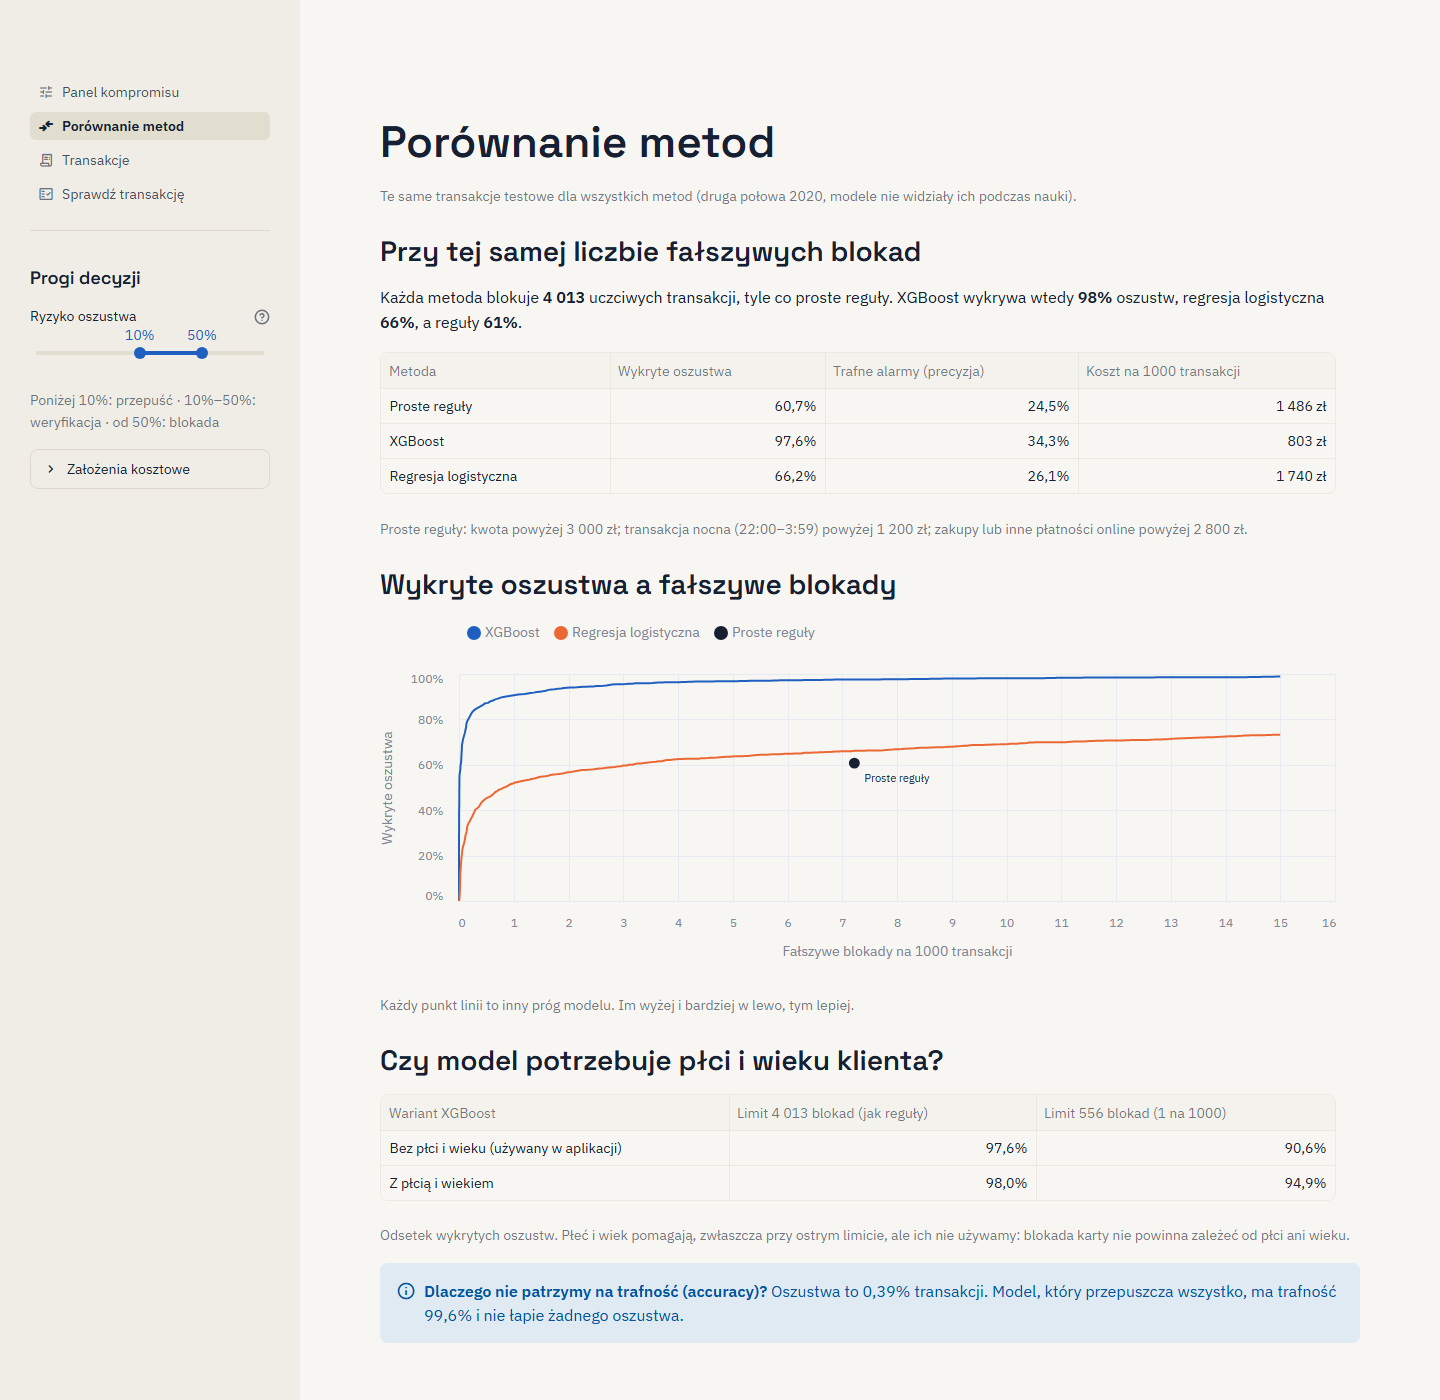
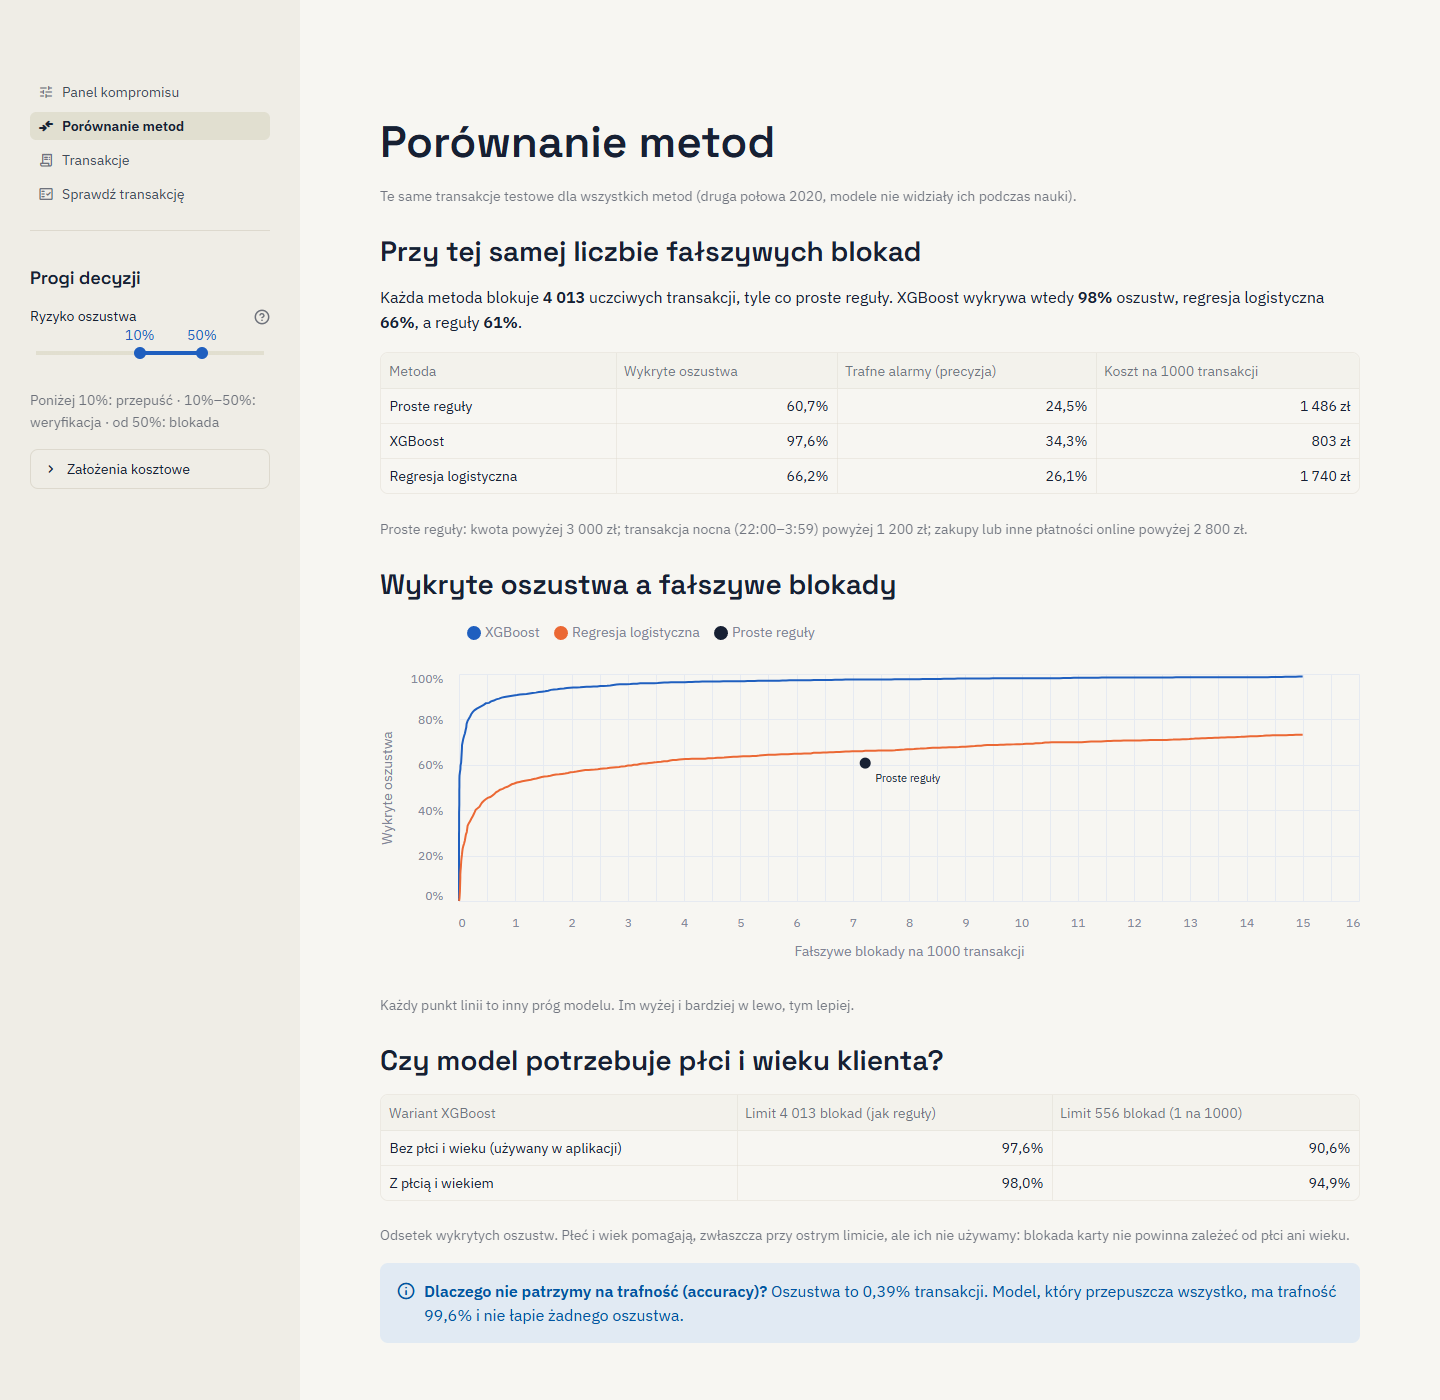
Polish number and date formats, model limitation in the results, pin pandas below 3.1

diff --git a/report.py b/report.py
@@ -1,6 +1,6 @@
 """Writes a summary of the results to results/: Markdown tables and two charts.
 
-Run after train.py: uv run python report.py
+Run after train.py: uv run python report.py (it also reads data/fraudTrain.csv for the largest training fraud).
 """
 
 import json
@@ -12,15 +12,15 @@ import pandas as pd
 import xgboost as xgb
 
 from src.config import (
-    DEFAULT_BLOCK_COST, DEFAULT_THRESHOLDS, DEFAULT_VERIFY_COST, DEFAULT_VERIFY_EFFICACY, META_PATH, MODEL_PATH,
-    RESULTS_DIR, RISK_STEPS, SCORED_PATH, USD_PLN_SOURCE,
+    DATA_DIR, DEFAULT_BLOCK_COST, DEFAULT_THRESHOLDS, DEFAULT_VERIFY_COST, DEFAULT_VERIFY_EFFICACY, META_PATH,
+    MODEL_PATH, RESULTS_DIR, RISK_STEPS, SCORED_PATH, USD_PLN, USD_PLN_SOURCE,
 )
 from src.evaluation import (
     BLOCK, PASS, VERIFY, Costs, alarm_curve, compare_at_rules_false_alarms, comparison_table, decide, evaluate,
     sensitive_variants_table,
 )
-from src.features import BASE_FEATURES, FEATURE_LABELS
-from src.formatting import BLUE, INK, ORANGE, fmt_int, fmt_pct, fmt_pln, fmt_step
+from src.features import BASE_FEATURES, FEATURE_LABELS, add_model_inputs
+from src.formatting import BLUE, INK, ORANGE, fmt_date, fmt_int, fmt_pct, fmt_pln, fmt_step
 from src.rules import RULE_LABELS
 
 MODELS = {"XGBoost": "score_xgb", "Regresja logistyczna": "score_lr"}
@@ -60,10 +60,9 @@ def comparison_chart(df: pd.DataFrame, y: np.ndarray, false_alarms: int, rules_d
     plt.close(fig)
 
 
-def importance_chart(df: pd.DataFrame) -> pd.Series:
+def importance_chart(df: pd.DataFrame, booster: xgb.Booster) -> pd.Series:
     """Mean absolute SHAP value per business feature on a random sample of test transactions."""
     sample = df.sample(20_000, random_state=42)
-    booster = xgb.Booster(model_file=str(MODEL_PATH))
     contributions = booster.predict(xgb.DMatrix(sample[BASE_FEATURES].astype("float32")), pred_contribs=True)[:, :-1]
     importance = (
         pd.DataFrame(contributions, columns=BASE_FEATURES).T.groupby(FEATURE_LABELS).sum().T
@@ -92,6 +91,22 @@ def cheapest_thresholds(y: np.ndarray, amount: np.ndarray, scores: np.ndarray, c
     return best[0], best[1], cost[best]
 
 
+def largest_training_fraud() -> float:
+    """The largest fraud in the training data, in PLN: the model has seen no fraud above it."""
+    train = pd.read_csv(DATA_DIR / "fraudTrain.csv", usecols=["amt", "is_fraud"])
+    return train.loc[train["is_fraud"] == 1, "amt"].max() * USD_PLN
+
+
+def night_grocery_risk(booster: xgb.Booster, amount: float) -> float:
+    """Risk of a grocery purchase at 23:00 on a card that spent 4 000 zł in the last 24 h. The rest as in the
+    form on the check page: card average 250 zł, 4 h since the previous transaction."""
+    row = add_model_inputs(pd.DataFrame([{
+        "hour": 23, "amount": amount, "category": "grocery_pos", "amount_ratio": amount / 250,
+        "spent_24h": 4000, "hours_since_prev": 4,
+    }]))
+    return float(booster.predict(xgb.DMatrix(row[BASE_FEATURES].astype("float32")))[0])
+
+
 def main() -> None:
     RESULTS_DIR.mkdir(exist_ok=True)
     df = pd.read_parquet(SCORED_PATH)
@@ -103,7 +118,9 @@ def main() -> None:
     false_alarms, comparison = compare_at_rules_false_alarms(df, MODELS, costs)
     rules_detected = comparison.loc[comparison["Metoda"] == "Proste reguły", "Wykryte oszustwa"].item()
     comparison_chart(df, y, false_alarms, rules_detected)
-    importance = importance_chart(df)
+    booster = xgb.Booster(model_file=str(MODEL_PATH))
+    importance = importance_chart(df, booster)
+    largest_fraud = largest_training_fraud()
 
     rules_table = pd.DataFrame({
         "Reguła": [*RULE_LABELS.values(), "Dowolna z powyższych"],
@@ -129,10 +146,10 @@ którego modele nie widziały podczas nauki.
 
 - Zbiór: „Credit Card Transactions Fraud Detection Dataset” (Kaggle, autor kartik2112, dane syntetyczne
   z generatora Sparkov): https://www.kaggle.com/datasets/kartik2112/fraud-detection
-- Uczenie: {fmt_int(train['rows'])} transakcji ({train['from']} – {train['to']}), w tym {fmt_int(train['fraud'])}
-  oszustw ({fmt_pct(train['fraud'] / train['rows'], 2)}).
-- Test: {fmt_int(test['rows'])} transakcji ({test['from']} – {test['to']}), w tym {fmt_int(test['fraud'])}
-  oszustw ({fmt_pct(test['fraud'] / test['rows'], 2)}).
+- Uczenie: {fmt_int(train['rows'])} transakcji ({fmt_date(train['from'])} – {fmt_date(train['to'])}),
+  w tym {fmt_int(train['fraud'])} oszustw ({fmt_pct(train['fraud'] / train['rows'], 2)}).
+- Test: {fmt_int(test['rows'])} transakcji ({fmt_date(test['from'])} – {fmt_date(test['to'])}),
+  w tym {fmt_int(test['fraud'])} oszustw ({fmt_pct(test['fraud'] / test['rows'], 2)}).
 - Kwoty w zbiorze są w USD, przeliczamy je na zł: {USD_PLN_SOURCE}.
 - Model, który przepuszcza wszystko, ma trafność (accuracy) {fmt_pct(1 - y.mean(), 1)} i nie łapie żadnego
   oszustwa. Dlatego patrzymy na wykryte oszustwa, fałszywe alarmy i koszt.
@@ -199,6 +216,10 @@ zablokowane uczciwe transakcje {fmt_int(panel.honest[BLOCK])}, zweryfikowane ucz
 - Dane są syntetyczne. Generator tworzy wyraźne wzorce oszustw (noc, wysokie kwoty, seria transakcji
   w krótkim czasie), więc na prawdziwych danych wyniki byłyby prawdopodobnie niższe.
 - Uczenie i test pochodzą z tego samego generatora; test jest późniejszy w czasie (jak w praktyce).
+- Model zna tylko sytuacje z danych uczących. Największe oszustwo w nich to {fmt_pln(largest_fraud)}, więc wyższych
+  kwot model nie uznaje za bardziej podejrzane. Przykład (zakupy spożywcze w sklepie o 23:00, wydatki karty
+  w ostatnich 24 h 4 000 zł): przy 1 500 zł ryzyko wynosi {fmt_pct(night_grocery_risk(booster, 1500), 1)},
+  a przy 20 000 zł tylko {fmt_pct(night_grocery_risk(booster, 20_000), 1)}.
 - Koszty i skuteczność weryfikacji to założenia. Najtańsze progi zmieniają się razem z nimi.
 """
     (RESULTS_DIR / "summary.md").write_text(report, encoding="utf-8")

diff --git a/views/comparison.py b/views/comparison.py
@@ -49,12 +49,15 @@ rules_point = pd.DataFrame({
     "detected": [detected["Proste reguły"]],
     "Metoda": ["Proste reguły"],
 })
+for points in (curves, rules_point):  # tooltip texts with a decimal comma
+    points["Blokady na 1000"] = points["false_per_1000"].map(lambda v: f"{v:.1f}".replace(".", ","))
+    points["Wykryte oszustwa"] = points["detected"].map(lambda v: fmt_pct(v, 1))
 color = alt.Color("Metoda:N", title=None, legend=alt.Legend(orient="top"),
                   scale=alt.Scale(domain=[*MODELS, "Proste reguły"], range=[BLUE, ORANGE, INK]))
-x = alt.X("false_per_1000:Q", title="Fałszywe blokady na 1000 transakcji")
+x = alt.X("false_per_1000:Q", title="Fałszywe blokady na 1000 transakcji",
+          axis=alt.Axis(labelExpr="replace(format(datum.value, '~g'), '.', ',')"))
 y_axis = alt.Y("detected:Q", title="Wykryte oszustwa", axis=alt.Axis(format="%"), scale=alt.Scale(domain=[0, 1]))
-tooltip = [alt.Tooltip("Metoda:N"), alt.Tooltip("false_per_1000:Q", title="Blokady na 1000", format=".1f"),
-           alt.Tooltip("detected:Q", title="Wykryte oszustwa", format=".1%")]
+tooltip = ["Metoda:N", "Blokady na 1000:N", "Wykryte oszustwa:N"]
 lines = alt.Chart(curves).mark_line(strokeWidth=2).encode(x=x, y=y_axis, color=color)
 hover_points = alt.Chart(curves).mark_point(size=80, opacity=0).encode(x=x, y=y_axis, tooltip=tooltip)
 point = alt.Chart(rules_point).mark_point(filled=True, size=120, opacity=1).encode(

diff --git a/views/panel.py b/views/panel.py
@@ -8,7 +8,7 @@ import streamlit as st
 from src.app_data import load_meta, load_scored
 from src.config import USD_PLN_SOURCE
 from src.evaluation import BLOCK, DECISION_LABELS, PASS, VERIFY, decide, evaluate
-from src.formatting import BLUE, GRAY, INK, fmt_int, fmt_pct, fmt_pln
+from src.formatting import BLUE, GRAY, INK, fmt_date, fmt_int, fmt_pct, fmt_pln
 
 settings = st.session_state.settings
 df = load_scored()
@@ -21,7 +21,7 @@ current = evaluate(y, amount, decisions, settings.costs)
 no_system = evaluate(y, amount, np.full(len(df), PASS), settings.costs)
 rules = evaluate(y, amount, np.where(df["rules_any"], BLOCK, PASS), settings.costs)
 
-period = f"{pd.Timestamp(test['from']):%d.%m.%Y}–{pd.Timestamp(test['to']):%d.%m.%Y}"
+period = f"{fmt_date(test['from'])}–{fmt_date(test['to'])}"
 st.title("Panel kompromisu")
 st.caption(f"{fmt_int(test['rows'])} transakcji testowych ({period}), w tym {fmt_int(test['fraud'])} oszustw. "
            "Przesuwaj progi w panelu bocznym.")

diff --git a/src/formatting.py b/src/formatting.py
@@ -1,5 +1,7 @@
 """Polish number formatting and chart colors shared by the app and the report."""
 
+from datetime import date
+
 from src.features import MAX_HOURS_SINCE_PREV
 
 # Brand blue and orange (validated as a pair), ink for the rules baseline, gray for context.
@@ -19,6 +21,11 @@ def fmt_pln(value: float) -> str:
 
 def fmt_pct(share: float, digits: int = 0) -> str:
     return f"{share * 100:.{digits}f}%".replace(".", ",")
+
+
+def fmt_date(iso: str) -> str:
+    """'2020-06-21' -> '21.06.2020'."""
+    return f"{date.fromisoformat(iso):%d.%m.%Y}"
 
 
 def fmt_step(percent: float) -> str:

diff --git a/results/summary.md b/results/summary.md
@@ -1,16 +1,16 @@
 # Wyniki – Strażnik Płatności
 
-Wygenerowane przez `report.py` (25.10.2026). Wszystkie liczby dotyczą zbioru testowego,
+Wygenerowane przez `report.py` (29.10.2026). Wszystkie liczby dotyczą zbioru testowego,
 którego modele nie widziały podczas nauki.
 
 ## Dane
 
 - Zbiór: „Credit Card Transactions Fraud Detection Dataset” (Kaggle, autor kartik2112, dane syntetyczne
   z generatora Sparkov): https://www.kaggle.com/datasets/kartik2112/fraud-detection
-- Uczenie: 1 296 675 transakcji (2019-01-01 – 2020-06-21), w tym 7 506
-  oszustw (0,58%).
-- Test: 555 719 transakcji (2020-06-21 – 2020-12-31), w tym 2 145
-  oszustw (0,39%).
+- Uczenie: 1 296 675 transakcji (01.01.2019 – 21.06.2020),
+  w tym 7 506 oszustw (0,58%).
+- Test: 555 719 transakcji (21.06.2020 – 31.12.2020),
+  w tym 2 145 oszustw (0,39%).
 - Kwoty w zbiorze są w USD, przeliczamy je na zł: kurs średni NBP z 23.10.2026 (tabela 207/A/NBP/2026): 1 USD = 3,9247 zł.
 - Model, który przepuszcza wszystko, ma trafność (accuracy) 99,6% i nie łapie żadnego
   oszustwa. Dlatego patrzymy na wykryte oszustwa, fałszywe alarmy i koszt.
@@ -93,4 +93,8 @@ zablokowane uczciwe transakcje 199, zweryfikowane uczciwe transakcje
 - Dane są syntetyczne. Generator tworzy wyraźne wzorce oszustw (noc, wysokie kwoty, seria transakcji
   w krótkim czasie), więc na prawdziwych danych wyniki byłyby prawdopodobnie niższe.
 - Uczenie i test pochodzą z tego samego generatora; test jest późniejszy w czasie (jak w praktyce).
+- Model zna tylko sytuacje z danych uczących. Największe oszustwo w nich to 5 401 zł, więc wyższych
+  kwot model nie uznaje za bardziej podejrzane. Przykład (zakupy spożywcze w sklepie o 23:00, wydatki karty
+  w ostatnich 24 h 4 000 zł): przy 1 500 zł ryzyko wynosi 100,0%,
+  a przy 20 000 zł tylko 80,7%.
 - Koszty i skuteczność weryfikacji to założenia. Najtańsze progi zmieniają się razem z nimi.

diff --git a/docs/tutorial.md b/docs/tutorial.md
@@ -2,7 +2,7 @@
 
 Strażnik Płatności ocenia ryzyko oszustwa w transakcjach kartowych i proponuje jedną z trzech decyzji:
 **przepuść**, **dodatkowa weryfikacja** (SMS, 3D Secure) albo **blokada**. Pokazuje też, ile kosztuje
-wybrany kompromis między złapanymi oszustwami a zatrzymanymi uczciwymi klientami.
+wybrany kompromis między złapanymi oszustwami a zatrzymanymi uczciwymi transakcjami.
 
 Aplikacja działa na 555 719 transakcjach testowych z drugiej połowy 2020 roku (dane syntetyczne z Kaggle).
 Jak ją uruchomić, opisuje [README](../README.md). Liczby w tym tutorialu dotyczą ustawień domyślnych.
@@ -42,7 +42,7 @@ regułami (1 486 zł). Tabela „Co dzieje się z transakcjami” rozbija wynik 
 
 1. Przesuń próg blokady z 50% na 20%. Fałszywych blokad przybywa (199 → 539), a wykrytych oszustw jest
    tyle samo (93%), bo te transakcje i tak trafiały do weryfikacji. Ostrzejsza blokada uderza tu głównie
-   w uczciwych klientów.
+   w uczciwe transakcje.
 2. Wróć do 50% i przesuń próg weryfikacji z 10% na 0,5%. Koszt spada do 219 zł i wykrywamy 98% oszustw,
    ale zbędnych weryfikacji jest już 5 496. Najtańsze ustawienie nie musi być najlepsze dla klientów.
 3. Rozwiń „Założenia kosztowe” i zmień koszt blokady na 300 zł. Koszt przy domyślnych progach rośnie
